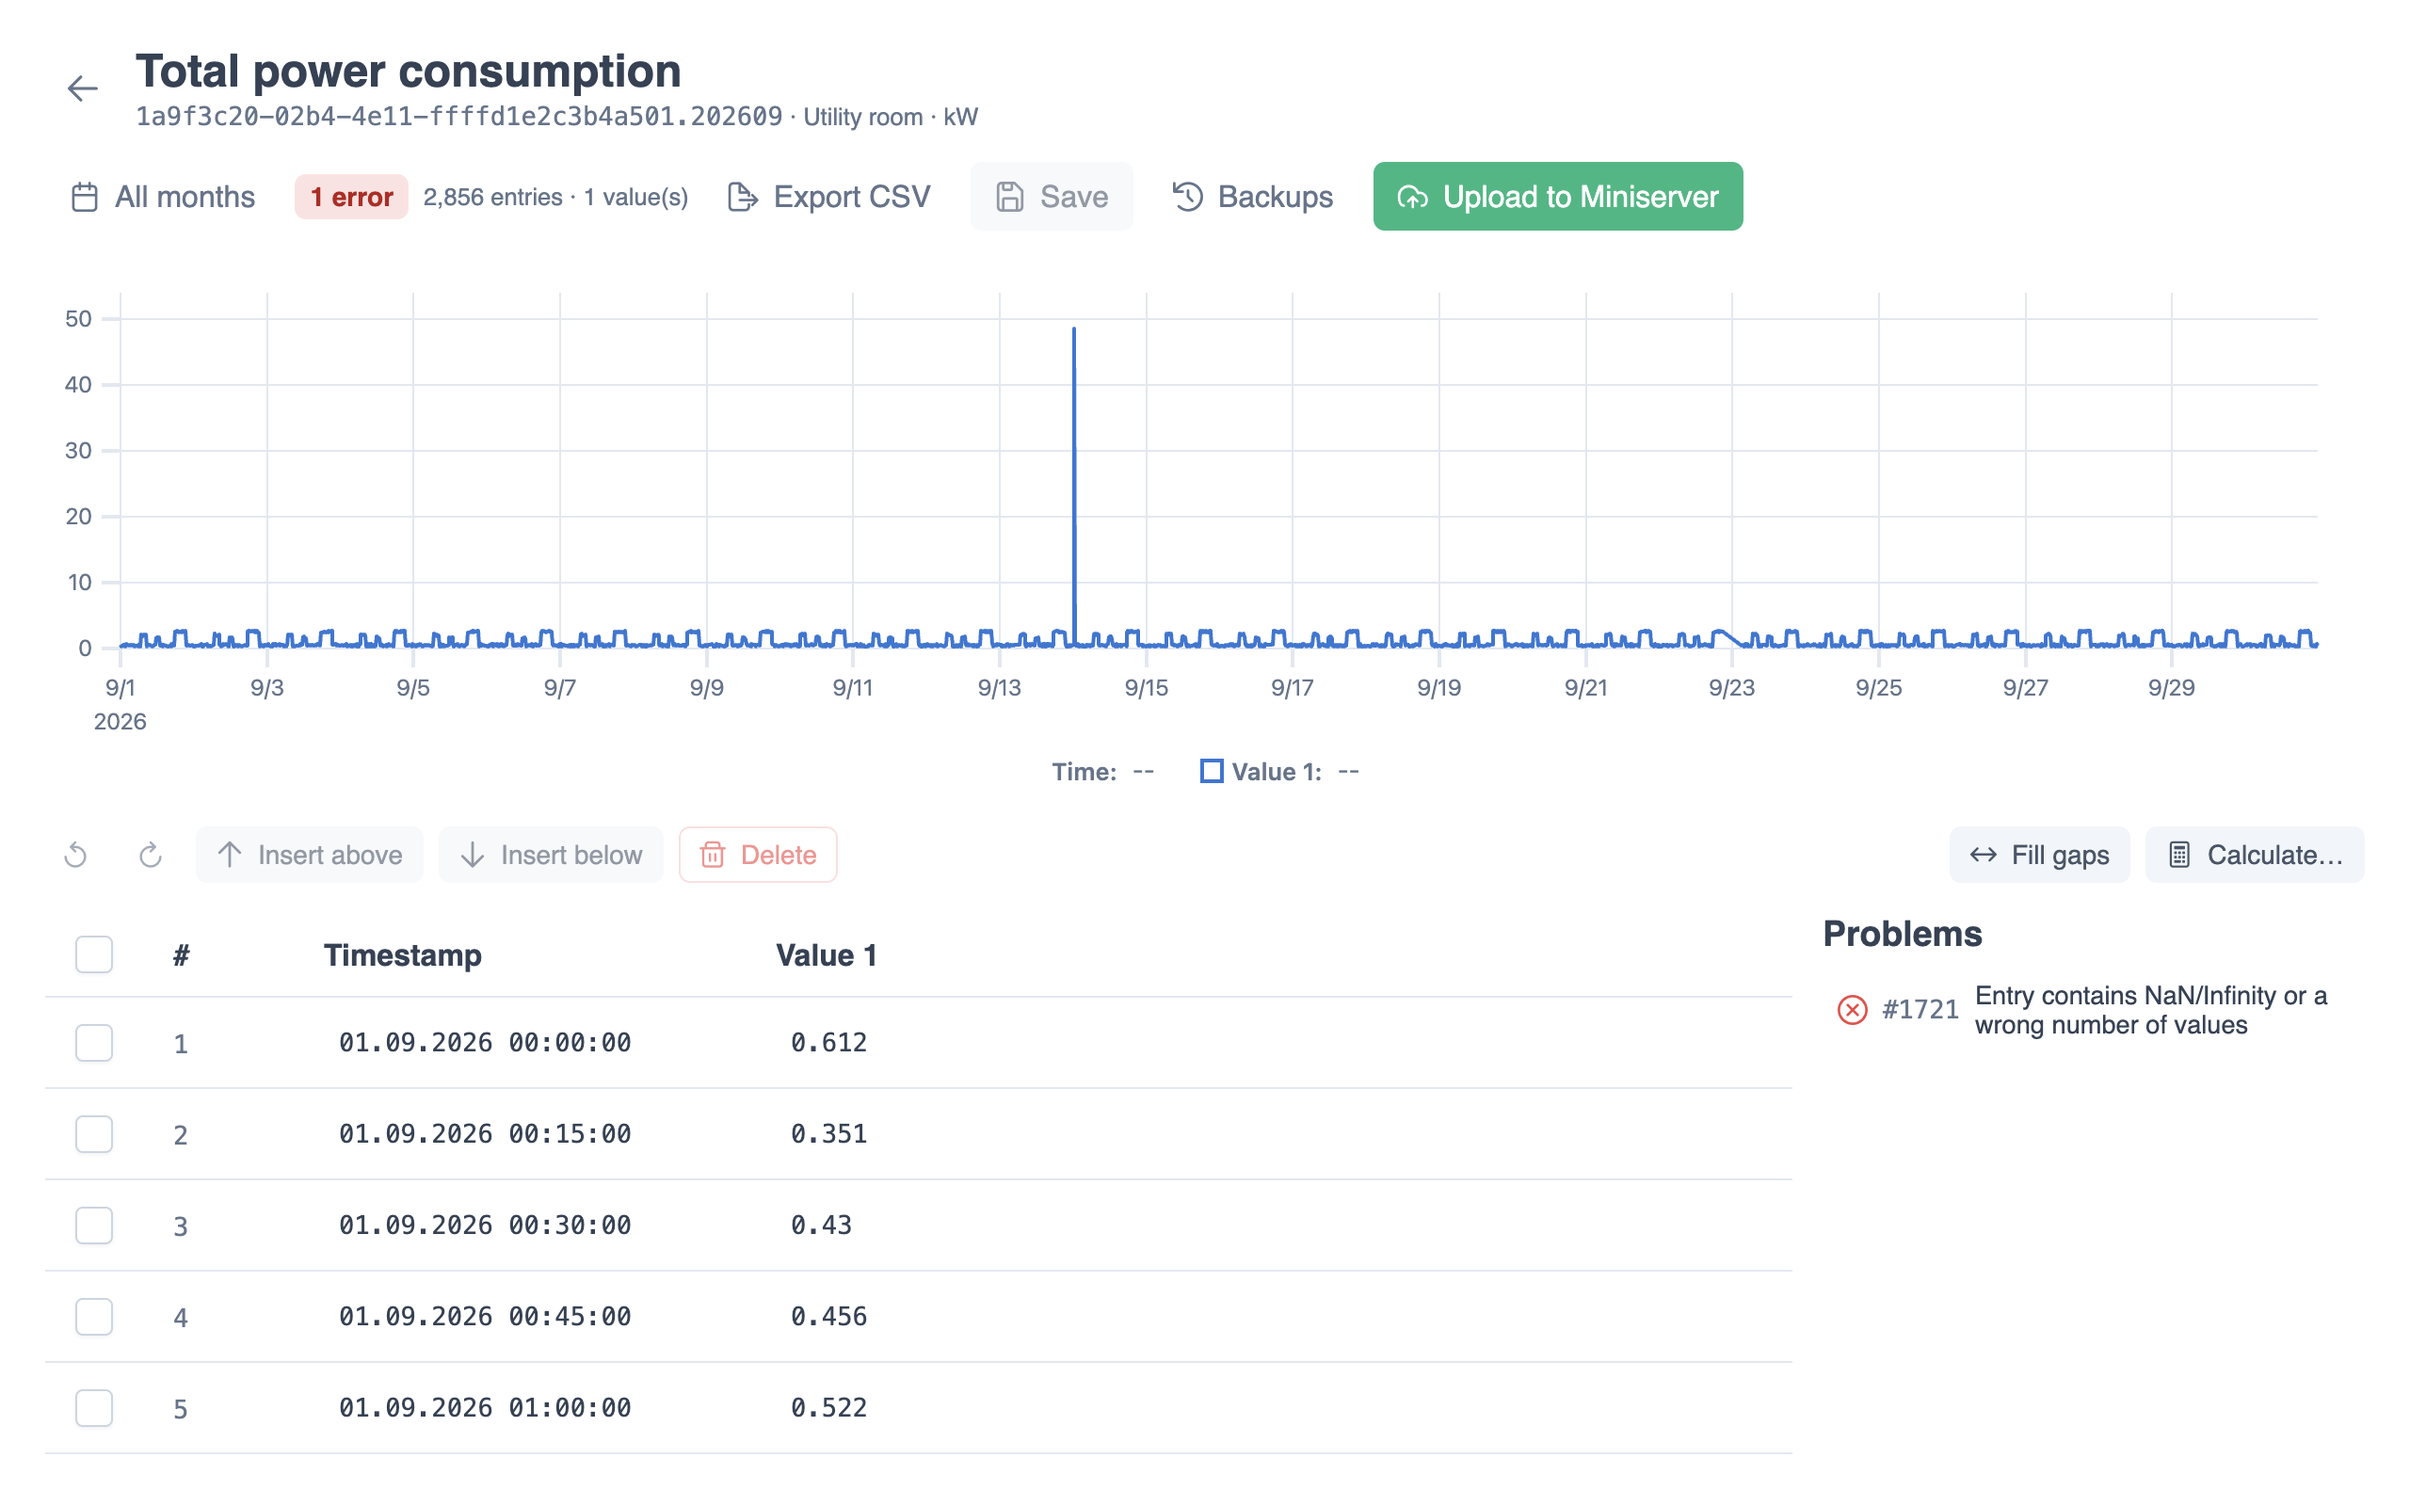
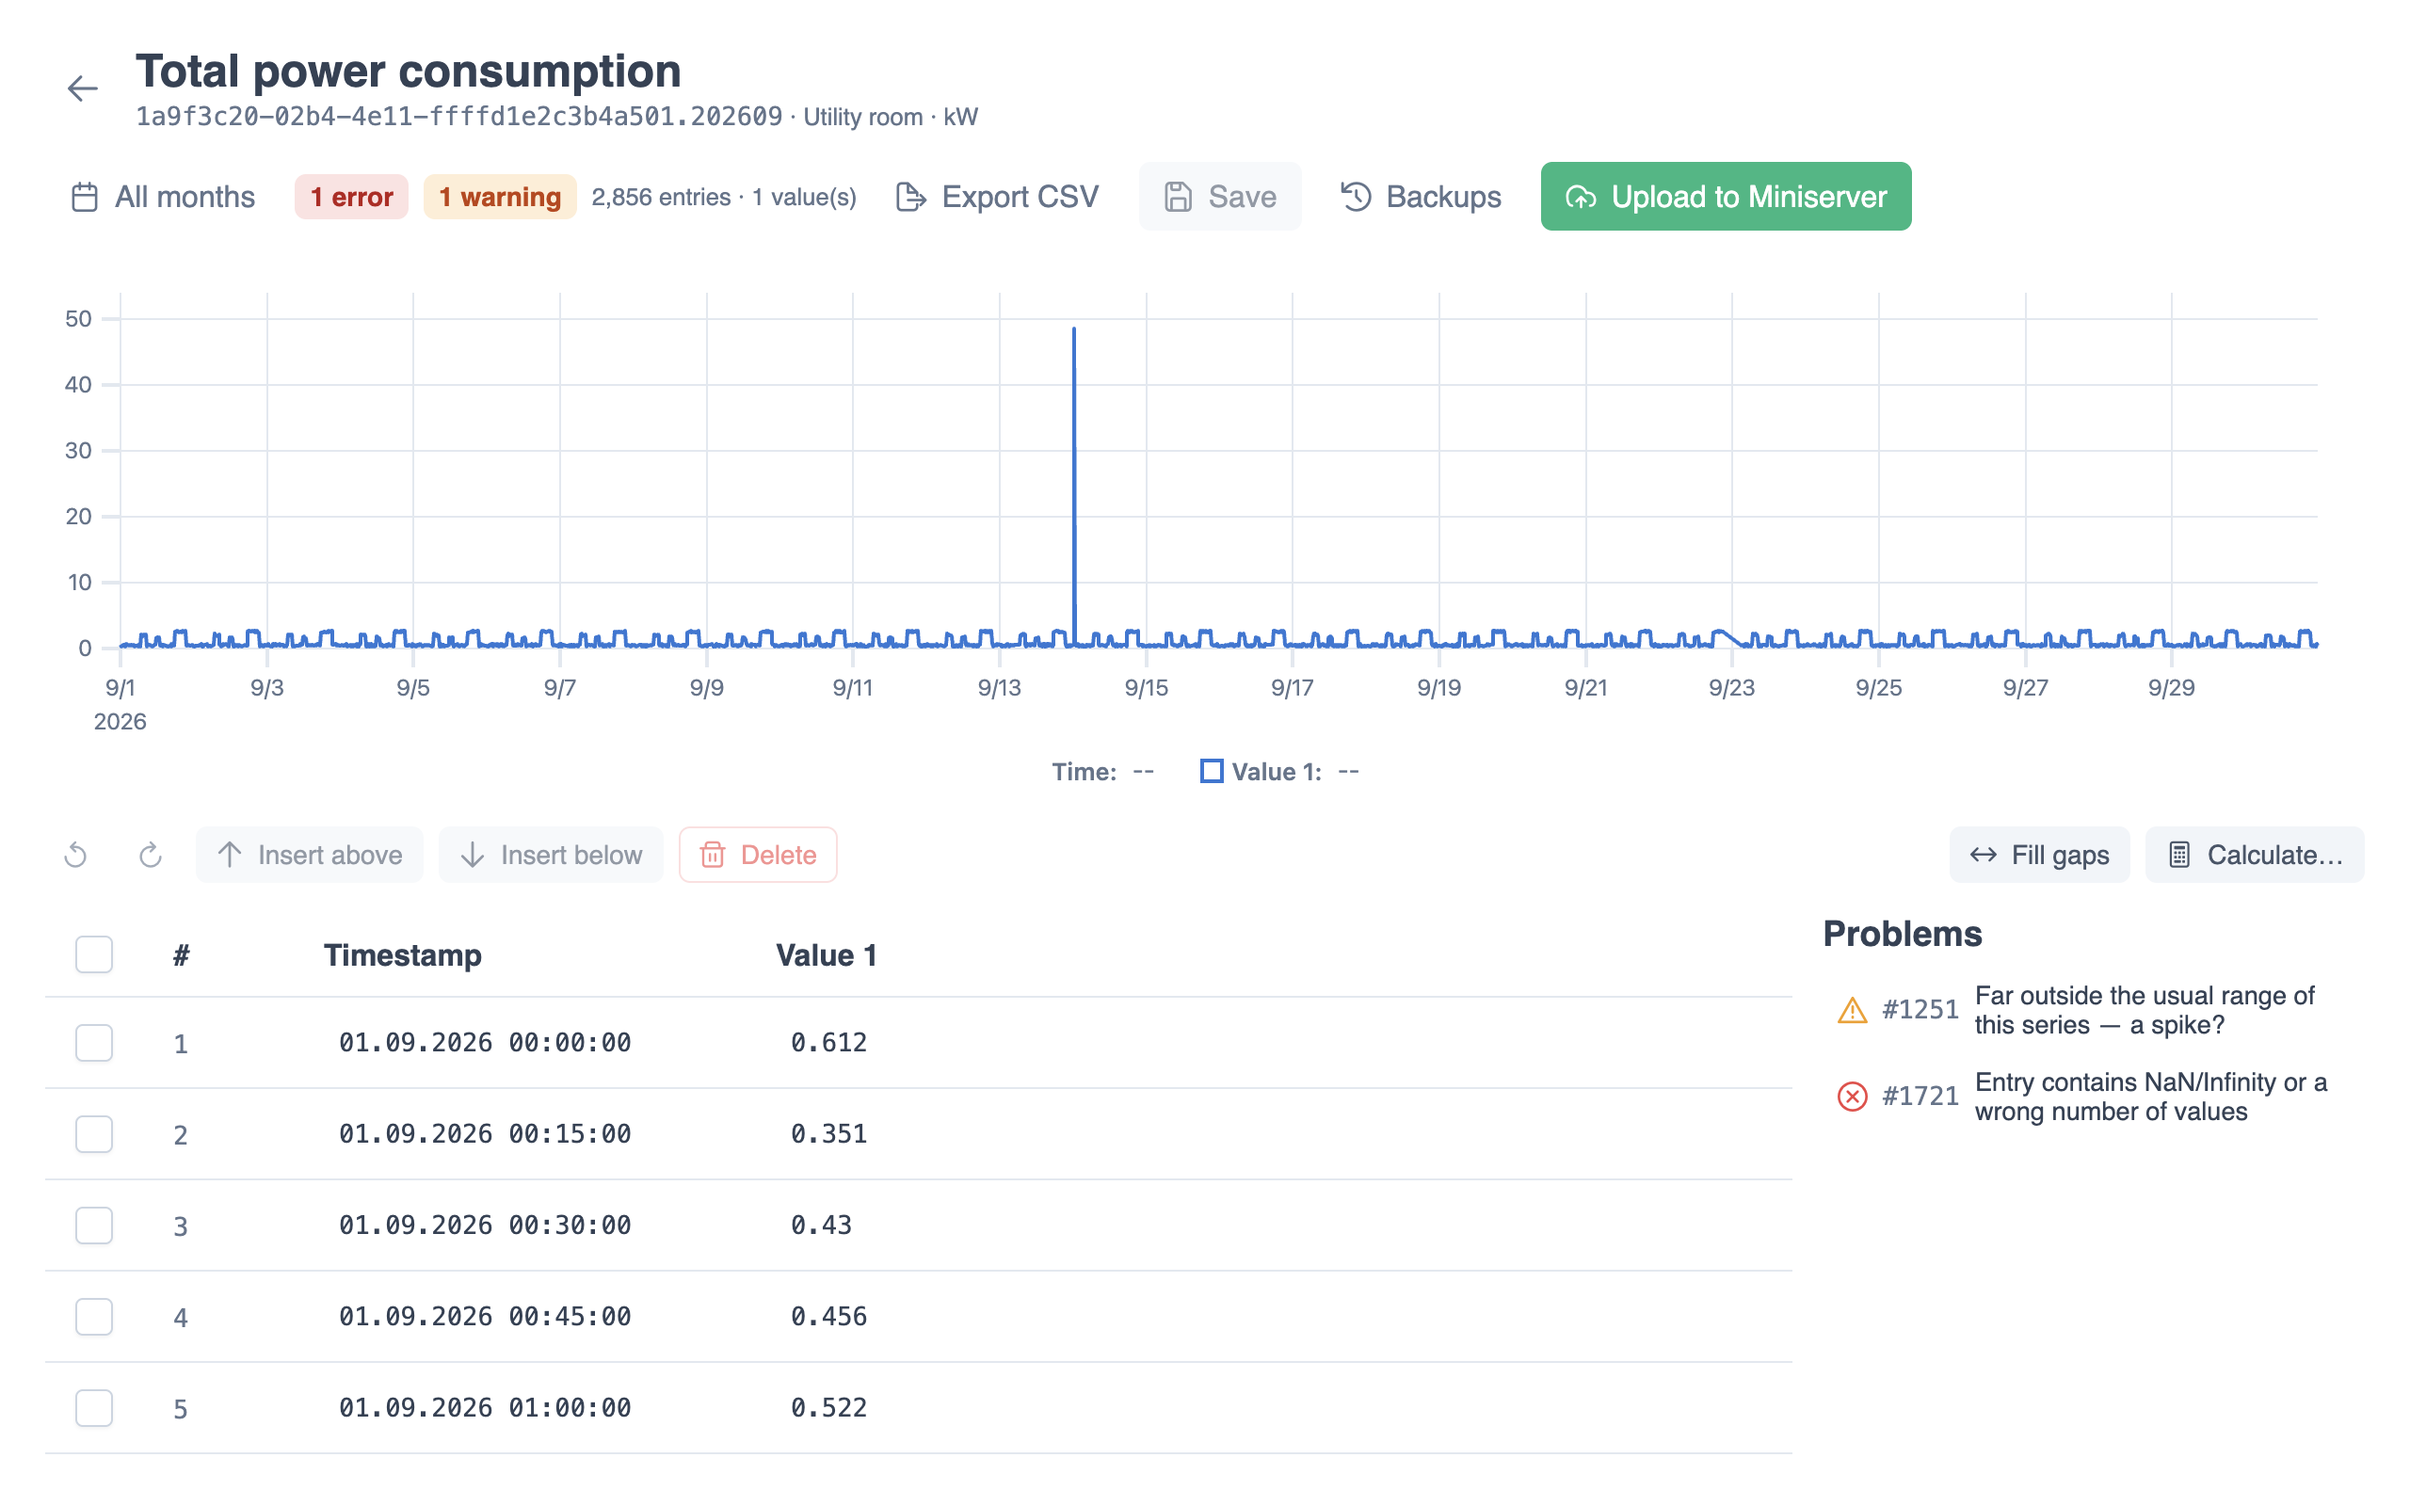
Spike rule: flag isolated values far outside a series' usual range
findSpikes (shared/records.ts) → 'spike' warning in validateRecords, so
editor, Problems panel and MCP validate all get it. Tuned on real cached
files (counts only): neighbour/percentile criteria flagged kettle-style
bursts in power series; the final band (all but the extreme 0.2 %,
10x margin) flags 1 of 224 files, a lone 40 between zeros.
The showcase tour now fixes the spike from the Problems panel.

Changed region(s): [[0.1562, 0.0938, 0.8125, 0.1562], [0.75, 0.6562, 0.9688, 0.75], [0.75, 0.6562, 0.7812, 0.6875]]

diff --git a/tests/records.test.ts b/tests/records.test.ts
@@ -5,6 +5,7 @@ import {
   dominantInterval,
   fileOffsets,
   fillGaps,
+  findSpikes,
   isCurrentMonth,
   locateIndex,
   type MonthFileLike,
@@ -16,7 +17,7 @@ import {
 } from '../src/shared/records'
 import { compileFormula } from '../src/shared/formula'
 import { loxTs, makeRecords } from './build-statfile'
-import type { CachedFile, RemoteFile } from '../src/shared/types'
+import type { CachedFile, RemoteFile, StatRecord } from '../src/shared/types'
 
 describe('dominantInterval', () => {
   it('finds the most frequent delta', () => {
@@ -249,5 +250,57 @@ describe('fileOffsets / locateIndex', () => {
     // index 3 belongs to file 2 — file 1 is empty
     expect(locateIndex(offsets, 3)).toEqual({ file: 2, local: 0 })
     expect(locateIndex(offsets, 4)).toEqual({ file: 2, local: 1 })
+  })
+})
+
+describe('findSpikes', () => {
+  const series = (vals: number[]): StatRecord[] =>
+    vals.map((v, i) => ({ ts: i * 900, values: [v] }))
+  // realistic power profile: base load with noise + evening on/off blocks
+  const power = Array.from(
+    { length: 400 },
+    (_, i) => 0.3 + ((i * 7919) % 13) / 50 + (i % 96 > 70 && i % 96 < 86 ? 2.1 : 0)
+  )
+
+  it('flags an isolated glitch, in either direction', () => {
+    const up = [...power]
+    up[150] = 48.6
+    expect(findSpikes(series(up), 1)).toEqual([[150, 0]])
+    const temp = Array.from({ length: 100 }, (_, i) => 21 + Math.sin(i / 8) * 0.5)
+    temp[40] = -40
+    expect(findSpikes(series(temp), 1)).toEqual([[40, 0]])
+  })
+
+  it('leaves normal patterns alone: on/off steps, ramps, meter readings, short pulses', () => {
+    expect(findSpikes(series(power), 1)).toEqual([])
+    const meter = Array.from(
+      { length: 200 },
+      (_, i) => 18400 + i * 0.3 + (i % 24 > 17 ? i * 0.01 : 0)
+    )
+    expect(findSpikes(series(meter), 1)).toEqual([])
+    const heatPump = Array.from({ length: 200 }, (_, i) => (i % 12 < 4 ? 1.4 : 0.02))
+    expect(findSpikes(series(heatPump), 1)).toEqual([])
+    const kettle = [...power]
+    kettle[150] = 2.6 // one 15-min burst in range of the series' own swings
+    expect(findSpikes(series(kettle), 1)).toEqual([])
+  })
+
+  it('a meter glitch is a spike, a meter reset (stays low) is not', () => {
+    const meter = Array.from({ length: 100 }, (_, i) => 18400 + i * 3)
+    const glitch = [...meter]
+    glitch[50] = 0
+    expect(findSpikes(series(glitch), 1)).toEqual([[50, 0]])
+    const reset = meter.map((v, i) => (i >= 50 ? (i - 50) * 3 : v))
+    expect(findSpikes(series(reset), 1)).toEqual([])
+  })
+
+  it('checks every value column; skips short series and non-finite values', () => {
+    const recs = power.map((v, i) => ({ ts: i * 900, values: [v, i === 30 ? 999 : 20] }))
+    expect(findSpikes(recs, 2)).toEqual([[30, 1]])
+    expect(findSpikes(series([1, 1, 99, 1, 1]), 1)).toEqual([])
+    const withNaN = [...power]
+    withNaN[149] = NaN
+    withNaN[150] = 48.6
+    expect(findSpikes(series(withNaN), 1)).toEqual([])
   })
 })

diff --git a/src/shared/records.ts b/src/shared/records.ts
@@ -22,6 +22,37 @@ export function dominantInterval(records: StatRecord[]): number {
   return best
 }
 
+/**
+ * Isolated outliers: one entry far beyond everything else in the series (outside the range
+ * of all values but the most extreme 0.2 % by more than 10× that range) while both neighbours
+ * are back inside — a sensor/transfer glitch. Measured on real files: power series have rare
+ * short bursts (kettle, oven) far above base load, so percentile bands or neighbour
+ * differences flag those; lasting jumps (meter reset) don't count either.
+ * Returns [record index, value index] pairs.
+ * ponytail: one band per value column; per-day/seasonal bands if series mix regimes.
+ */
+export function findSpikes(records: StatRecord[], valueCount: number): [number, number][] {
+  const out: [number, number][] = []
+  if (records.length < 20) return out
+  for (let k = 0; k < valueCount; k++) {
+    const v = records.map((r) => r.values[k])
+    const sorted = v.filter(Number.isFinite).sort((a, b) => a - b)
+    if (sorted.length < 20) continue
+    const skip = Math.ceil(sorted.length * 0.002)
+    const lo = sorted[skip]
+    const hi = sorted[sorted.length - 1 - skip]
+    // ponytail: absolute 0.001 floor — below any meaningful kW/°C/kWh/% step; unit-aware if needed
+    const margin = Math.max(10 * (hi - lo), 1e-3)
+    const inside = (x: number): boolean => x >= lo - margin && x <= hi + margin
+    for (let i = 1; i < v.length - 1; i++) {
+      if (Number.isFinite(v[i]) && !inside(v[i]) && inside(v[i - 1]) && inside(v[i + 1])) {
+        out.push([i, k])
+      }
+    }
+  }
+  return out.sort((p, q) => p[0] - q[0] || p[1] - q[1])
+}
+
 /** insert linearly interpolated rows into gaps > 1.5× the interval; returns a new array */
 export function fillGaps(
   records: StatRecord[],

diff --git a/src/main/statfile.ts b/src/main/statfile.ts
@@ -1,5 +1,6 @@
 import type { Problem, StatRecord } from '../shared/types'
 import { LOXONE_EPOCH_OFFSET, STAT_FILENAME_RE } from '../shared/types'
+import { findSpikes } from '../shared/records'
 
 /**
  * Loxone statistics binary format (little-endian, reverse-engineered — see
@@ -126,7 +127,16 @@ export function validateRecords(
       })
     }
   }
-  return problems
+  for (const [row] of findSpikes(records, valueCount)) {
+    if (problems.some((p) => p.row === row)) continue
+    problems.push({
+      row,
+      rule: 'spike',
+      severity: 'warning',
+      message: 'Value is far outside the usual range of this series (spike?)'
+    })
+  }
+  return problems.sort((a, b) => (a.row ?? -1) - (b.row ?? -1))
 }
 
 export function parseStatFile(buf: Buffer, fileName: string): ParsedStatFile {

diff --git a/tests/statfile.test.ts b/tests/statfile.test.ts
@@ -157,3 +157,18 @@ describe('real fixture files (drop anonymized Miniserver files into tests/fixtur
     })
   }
 })
+
+describe('spike rule', () => {
+  it('reports a spike as a warning, not on rows that already have an error', () => {
+    const records = makeRecords(200, 1, '2024-01-01T00:00:00Z', 900)
+    records[50].values[0] = 1e6
+    records[120].values[0] = NaN
+    const problems = validateRecords(records, '202401', 1)
+    expect(problems.filter((p) => p.rule === 'spike')).toEqual([
+      expect.objectContaining({ row: 50, severity: 'warning' })
+    ])
+    expect(problems.map((p) => p.row)).toEqual(
+      [...problems.map((p) => p.row)].sort((a, b) => a! - b!)
+    )
+  })
+})

diff --git a/src/renderer/src/locales/en.ts b/src/renderer/src/locales/en.ts
@@ -150,6 +150,7 @@ export default {
     'timestamp-outside-month-mid': "Timestamp lies outside the file's month",
     'timestamp-outside-month-last': 'Last entry lies outside the month (allowed for interpolation)',
     'invalid-value': 'Entry contains NaN/Infinity or a wrong number of values',
+    spike: 'Far outside the usual range of this series — a spike?',
     'bad-header': 'Invalid file header'
   },
   months: {

diff --git a/src/shared/types.ts b/src/shared/types.ts
@@ -62,7 +62,12 @@ export interface Problem {
   /** record index, null for file-level problems */
   row: number | null
   rule:
-    'uuid-mismatch' | 'timestamp-order' | 'timestamp-outside-month' | 'invalid-value' | 'bad-header'
+    | 'uuid-mismatch'
+    | 'timestamp-order'
+    | 'timestamp-outside-month'
+    | 'invalid-value'
+    | 'spike'
+    | 'bad-header'
   severity: 'error' | 'warning'
   message: string
 }

diff --git a/src/renderer/src/locales/de.ts b/src/renderer/src/locales/de.ts
@@ -154,6 +154,7 @@ const de: typeof en = {
     'timestamp-outside-month-last':
       'Letzter Eintrag liegt außerhalb des Monats (für Interpolation erlaubt)',
     'invalid-value': 'Eintrag enthält NaN/Unendlich oder eine falsche Anzahl an Werten',
+    spike: 'Weit außerhalb des üblichen Bereichs dieser Reihe — ein Ausreißer?',
     'bad-header': 'Ungültiger Datei-Header'
   },
   months: {

diff --git a/README.md b/README.md
@@ -37,7 +37,8 @@ your Miniserver connection in the app.
   [Names, rooms & units](docs/names-and-rooms.md)
 - **Chart + grid viewer** for the binary stat files (handles 40k+ entries per month
   smoothly), with validation ("Problems") like LoxStatEdit: wrong UUIDs, unordered
-  timestamps, out-of-month entries, NaN values
+  timestamps, out-of-month entries, NaN values — plus spikes (a single value far outside
+  the usual range of the series, e.g. a sensor glitch); click a problem to jump to it
 - **All months** of a control in one chart (e.g. a meter over a whole year), with
   min/max/average per month — see [All months](docs/all-months.md)
 - **Edit**: change timestamps and values inline, insert/delete entries, fill gaps with
